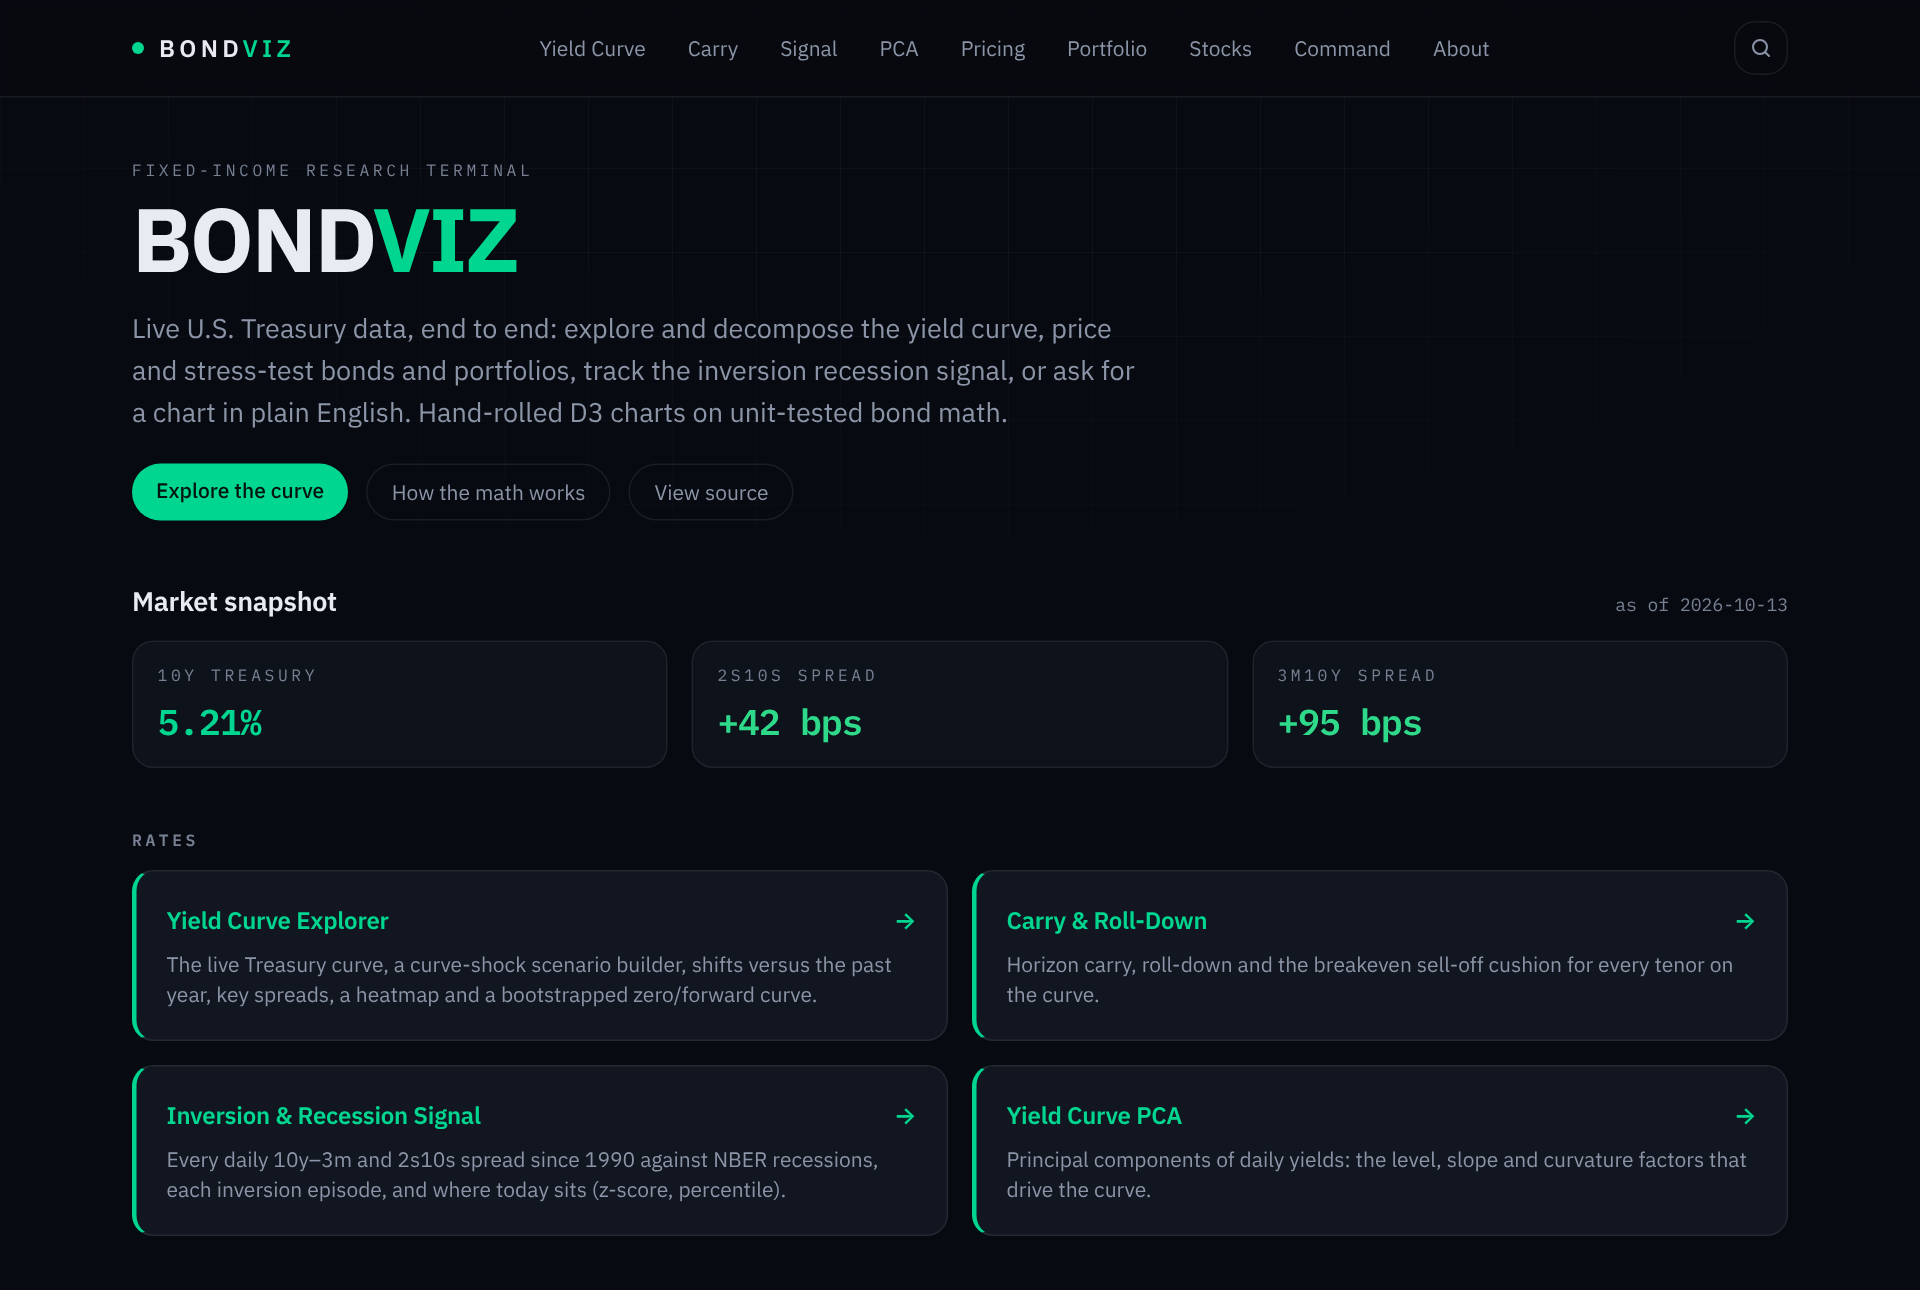
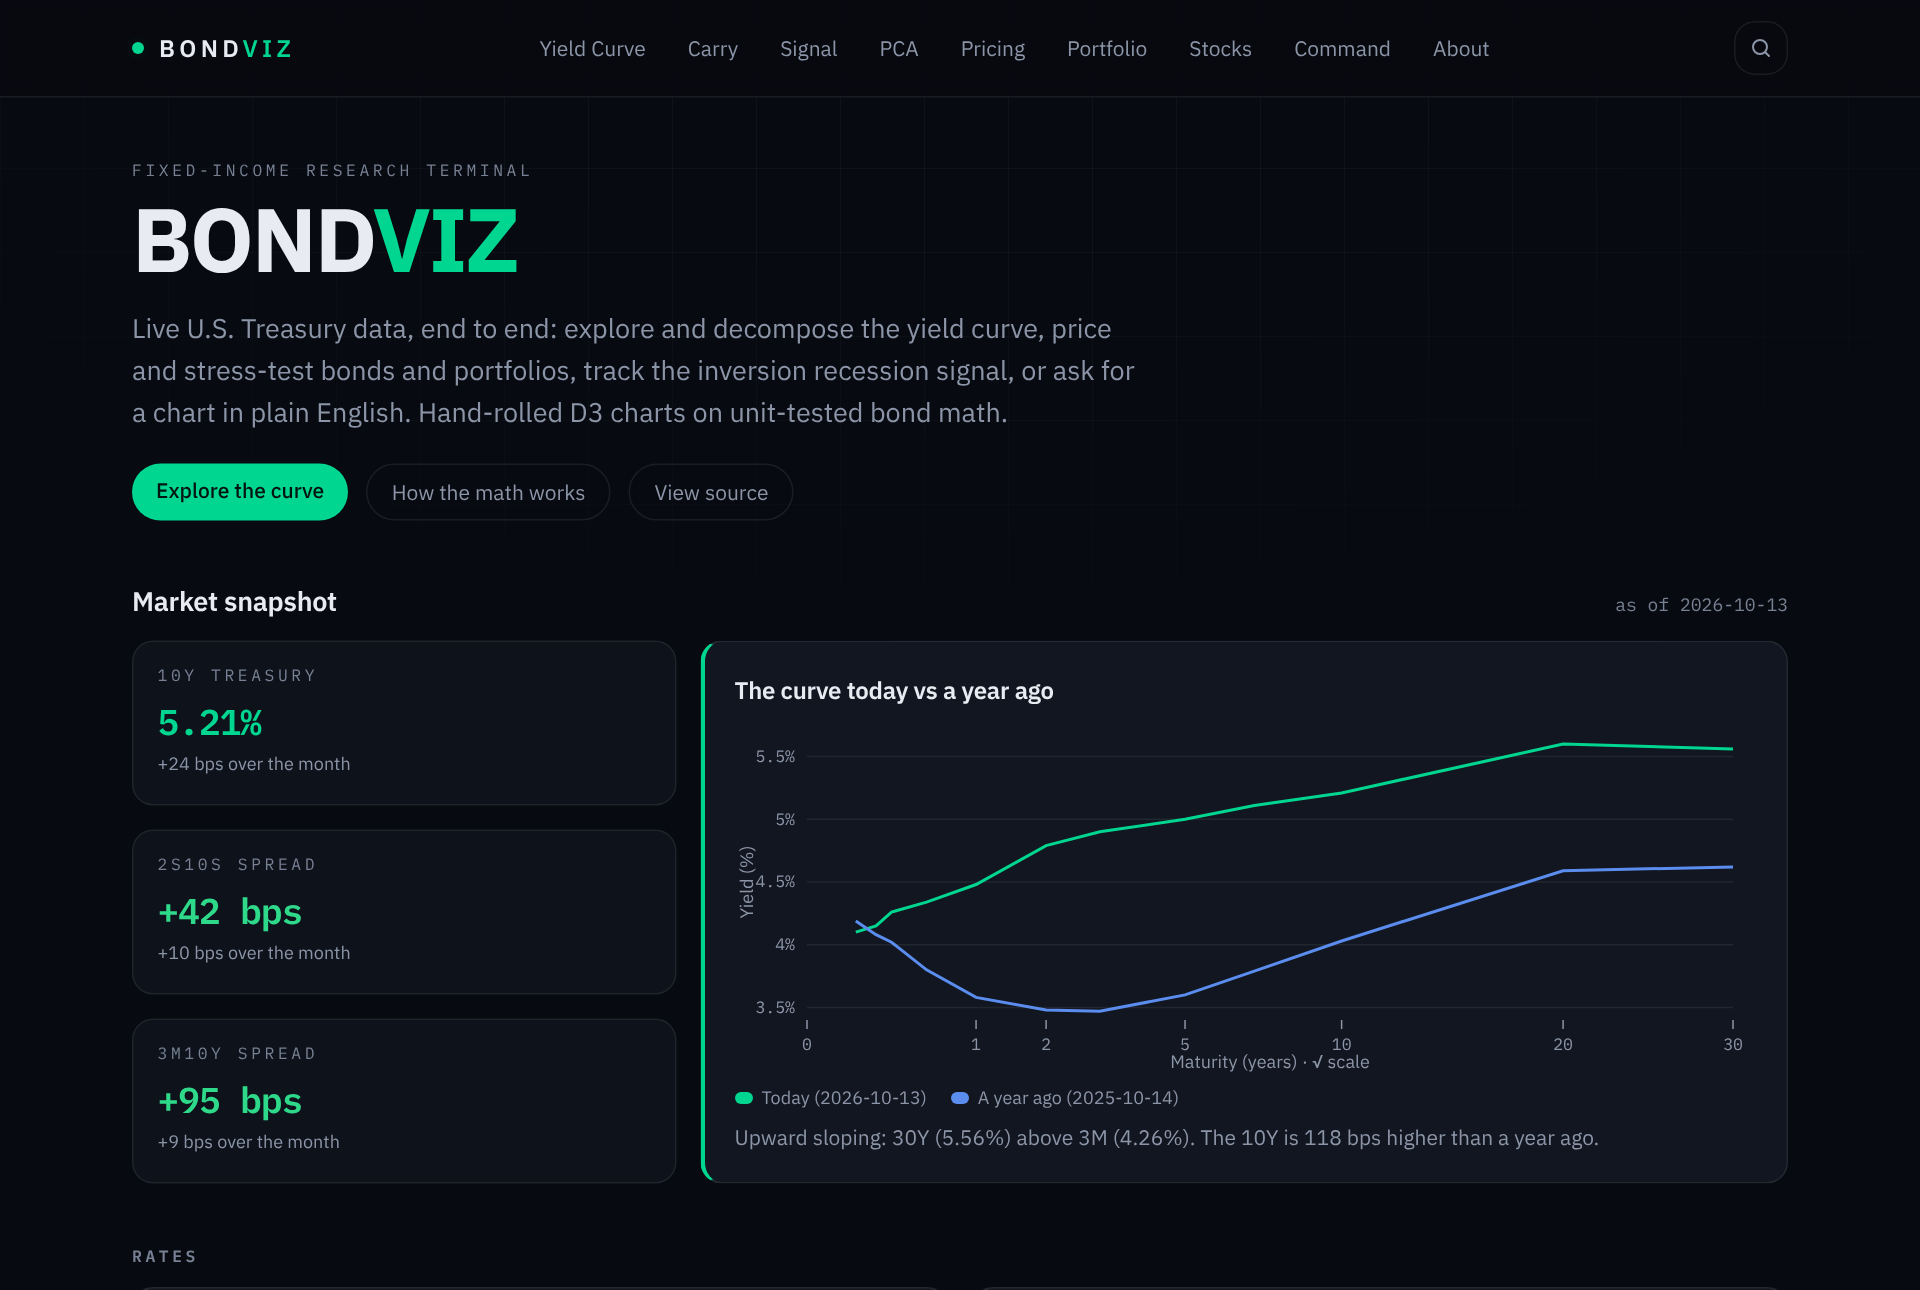
docs: refresh README screenshots for the new Home, readouts and Signal periods
Home (month moves, curve vs a year ago), Yield Curve (√ maturity axis,
readout at 2Y), Signal (spread history with a readout in 2007, the
five inversion periods) and PCA (√ axis on the loadings), captured from
a local production build replaying production Treasury data, at the
same 1280px × 1.5 framing as before. Alt text updated to match.

Claude-Session: https://claude.ai/code/session_01N8fWUaxDosePmKAWxVaMYR

diff --git a/README.md b/README.md
@@ -10,7 +10,7 @@ for a chart in plain English. Hand-rolled D3 charts on unit-tested bond math.
 
 [![CI](https://github.com/NikolayValev/bondviz/actions/workflows/ci.yml/badge.svg)](https://github.com/NikolayValev/bondviz/actions/workflows/ci.yml)
 
-![Yield Curve Explorer: the live Treasury curve against 1, 3, 6 and 12 months ago](docs/img/yield-curve.png)
+![Yield Curve Explorer: the live Treasury curve against 1, 3, 6 and 12 months ago, with the hover readout at 2Y](docs/img/yield-curve.png)
 
 ## What's inside
 
@@ -28,8 +28,8 @@ for a chart in plain English. Hand-rolled D3 charts on unit-tested bond math.
 | | |
 | --- | --- |
 | ![Curve shock builder: a 50bp steepening twist and its effect on 2Y–30Y benchmark bonds](docs/img/shock.png) | ![Key-rate DV01s of a 2Y/5Y/10Y portfolio](docs/img/krd.png) |
-| ![Bond Pricing & Risk Lab](docs/img/pricing.png) | ![Inversion & Recession Signal: today vs its own history](docs/img/signal.png) |
-| ![Yield Curve PCA](docs/img/pca.png) | ![Home with the live market snapshot](docs/img/home.png) |
+| ![Bond Pricing & Risk Lab](docs/img/pricing.png) | ![Inversion & Recession Signal: every daily spread since 1990 and the five inversion periods with their lead times](docs/img/signal.png) |
+| ![Yield Curve PCA](docs/img/pca.png) | ![Home: the live snapshot with month moves and the curve against a year ago](docs/img/home.png) |
 
 **Every view is a link.** Inputs live in the URL, so a configured bond, portfolio or scenario can
 be shared directly, for example a
